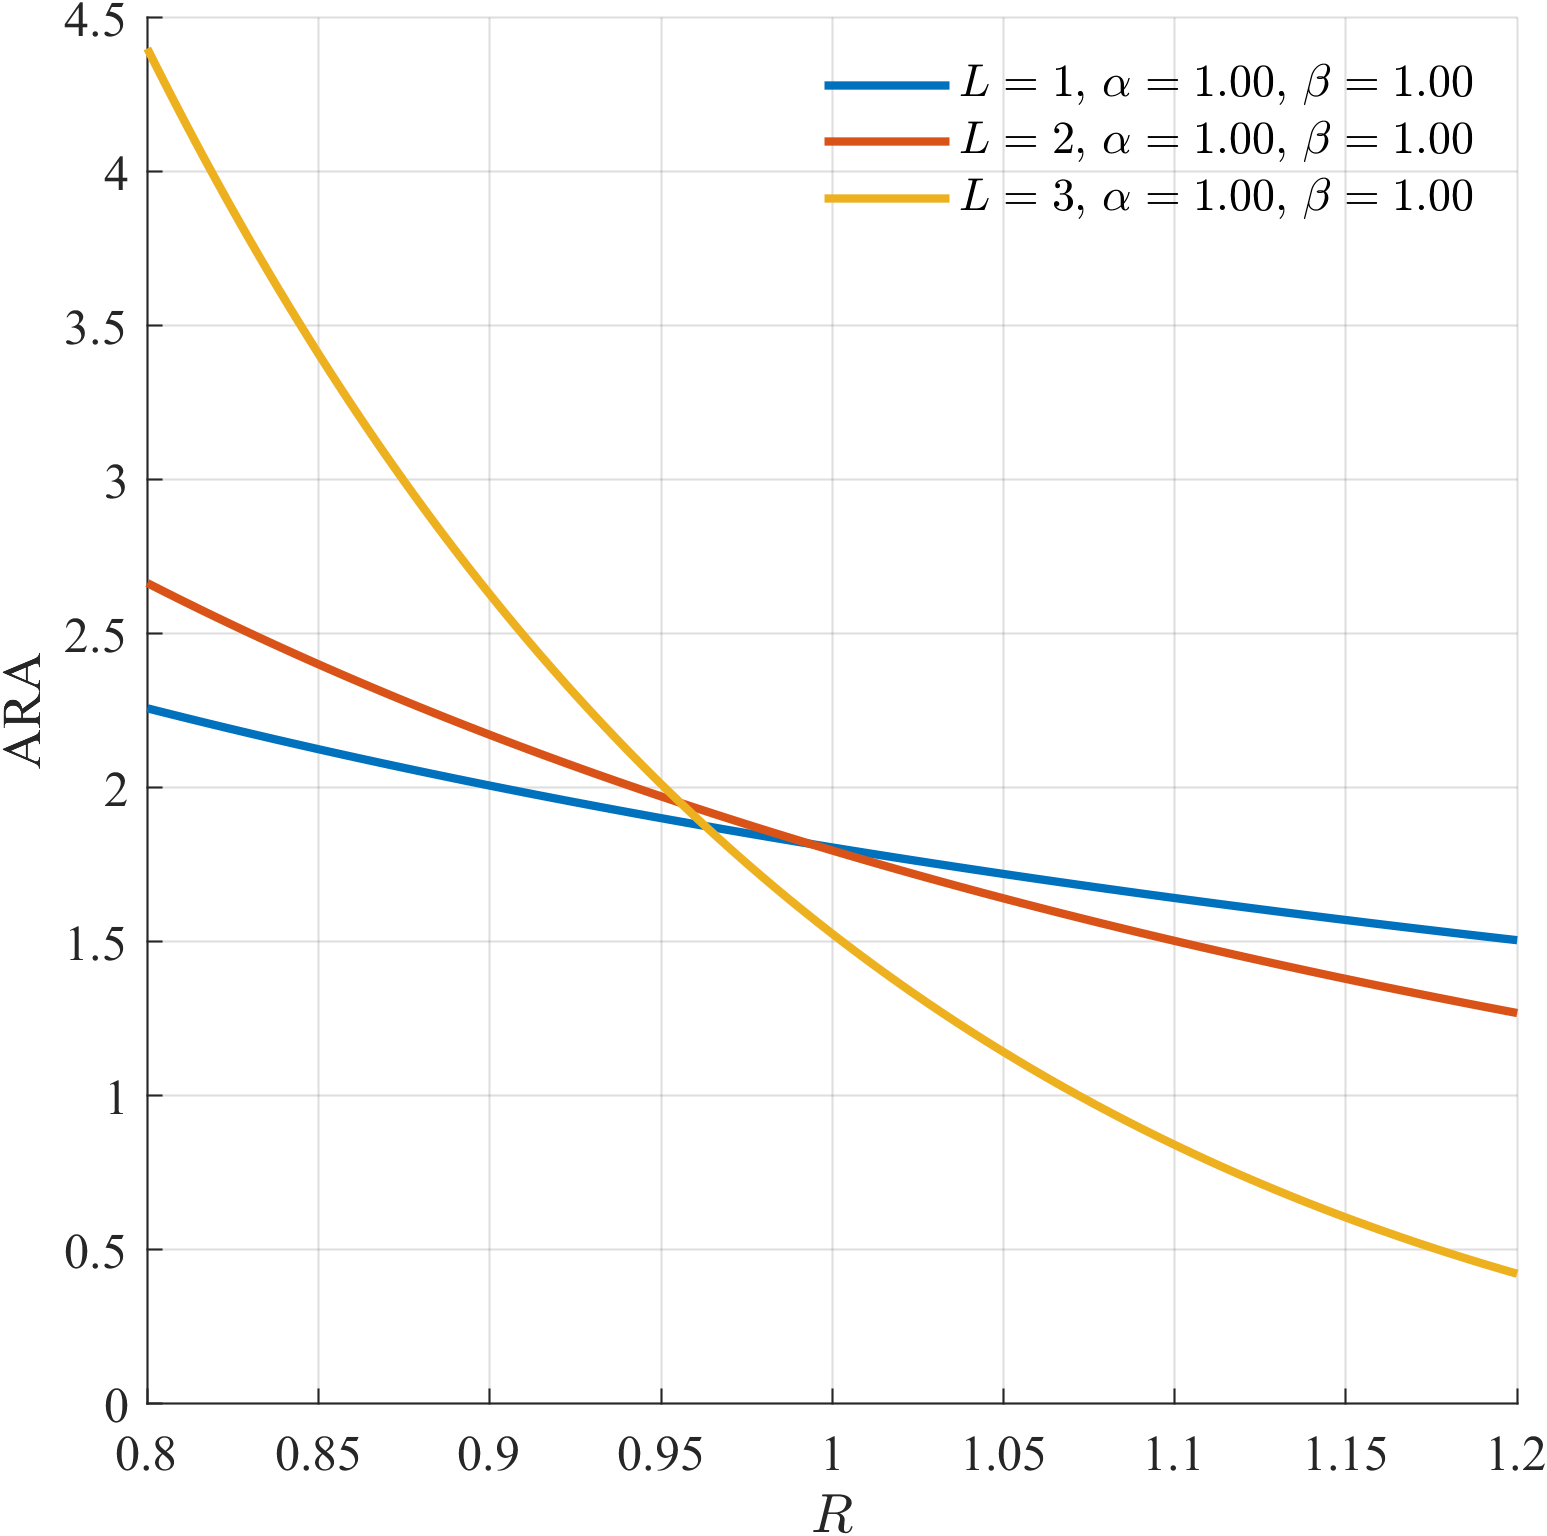
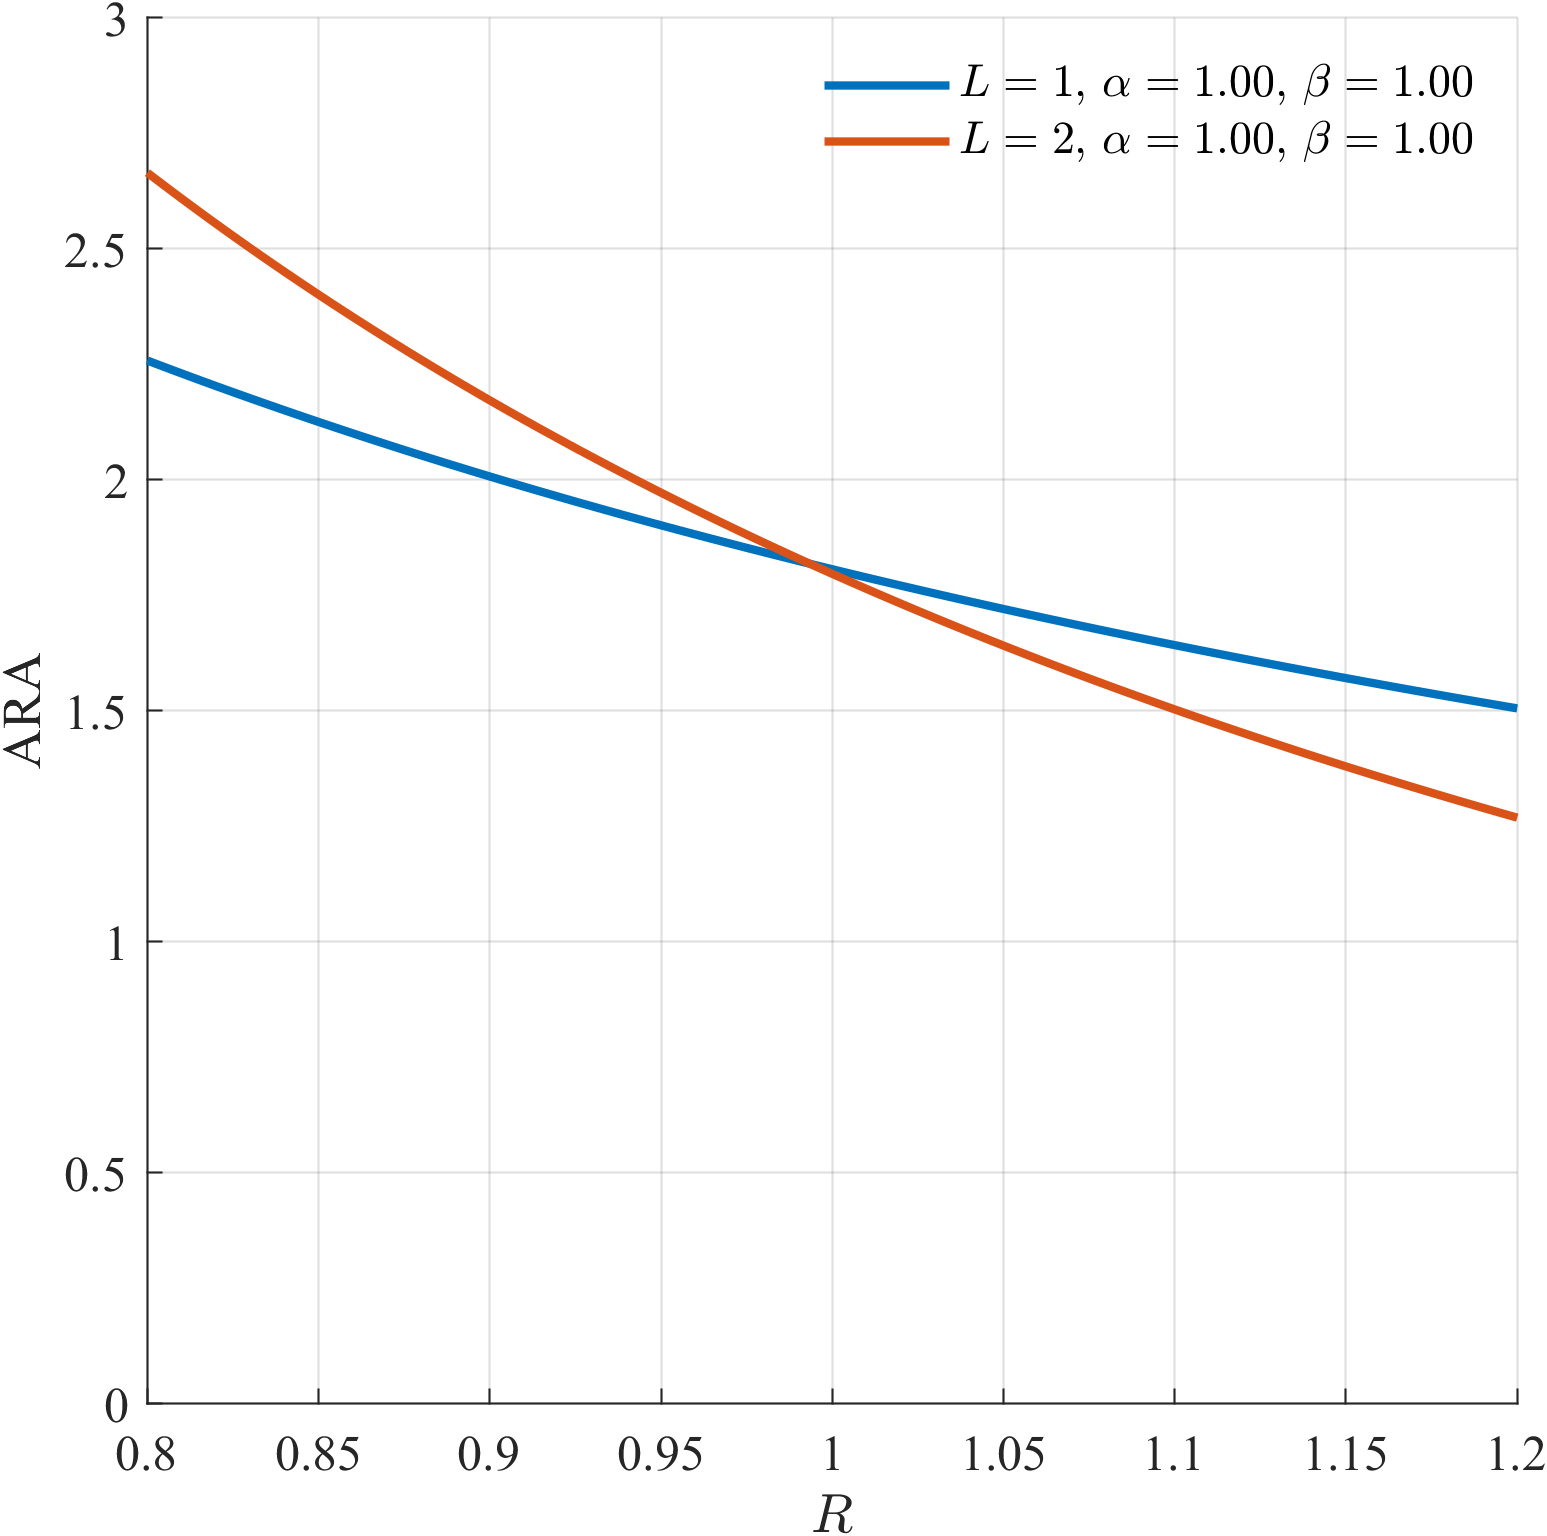
Adjust plot groups and y-limits; refresh outputs
Comment out L=3 parameter entries and reduce plot group indices to two per group; tighten delta y-limit ([-0.01,0.03]) and move legend to northwest. Update y-axis limits for measures (ARA 4.5→3, RRA 3.6→2.5, AP 10→5, RP 10→4, AT 10→7, RT 10→6) for clearer visualization. Regenerate related output PNGs.

diff --git a/11  MLE -  Exponential Polynomial with Distortion and Monotonicity (full range)/Main__Plot.m b/11  MLE -  Exponential Polynomial with Distortion and Monotonicity (full range)/Main__Plot.m
@@ -73,16 +73,16 @@ clear col_data i this_field fields
 param_list = {
     struct('L',1,'alpha',0.95,'beta',0.90)
     struct('L',2,'alpha',0.95,'beta',0.90)
-    struct('L',3,'alpha',1.00,'beta',0.90)
+    % struct('L',3,'alpha',1.00,'beta',0.90)
     struct('L',1,'alpha',1.00,'beta',1.00)
     struct('L',2,'alpha',1.00,'beta',1.00)
-    struct('L',3,'alpha',1.00,'beta',1.00)
+    % struct('L',3,'alpha',1.00,'beta',1.00)
 };
 
 % 設定繪圖群組：前三組為 Distorted，後三組為 Undistorted
 plot_groups = {
-    struct('indices', 1:3, 'suffix', 'distorted',   'title', 'Distorted M-Curve')
-    struct('indices', 4:6, 'suffix', 'undistorted', 'title', 'Undistorted M-Curve')
+    struct('indices', 1:2, 'suffix', 'distorted',   'title', 'Distorted M-Curve')
+    struct('indices', 3:4, 'suffix', 'undistorted', 'title', 'Undistorted M-Curve')
 };
 
 
@@ -209,9 +209,9 @@ for g = 1:numel(plot_groups)
     ylabel('$\delta_t$', 'Rotation', 0, 'HorizontalAlignment', 'right');
     grid on;
     xlim([min(date_objs), max(date_objs)]);
-    ylim([-0.09 0.03]);    
+    ylim([-0.01 0.03]);    
     xtickformat('yyyy');
-    legend('show', 'Location', 'southwest', 'Box', 'off', 'FontSize', 11);
+    legend('show', 'Location', 'northwest', 'Box', 'off', 'FontSize', 11);
     
     out_name = sprintf('plot_delta_Group_%s.png', group.suffix);
     exportgraphics(fig, fullfile(Path_Output_Plot, out_name), 'Resolution', 300);
@@ -294,9 +294,9 @@ for m = 1:length(measures_to_plot)
         
         % 套用 Y 軸範圍
         switch measure_key
-            case 'ARA', ylim([0, 4.5]); case 'RRA', ylim([0, 3.6]);
-            case 'AP',  ylim([0, 10]);  case 'RP',  ylim([0, 10]);
-            case 'AT',  ylim([0, 10]);  case 'RT',  ylim([0, 10]);
+            case 'ARA', ylim([0, 3]); case 'RRA', ylim([0, 2.5]);
+            case 'AP',  ylim([0, 5]); case 'RP',  ylim([0, 4]);
+            case 'AT',  ylim([0, 7]); case 'RT',  ylim([0, 6]);
         end
         
         legend('show', 'Location', 'northeast', 'Box', 'off', 'FontSize', 11);
